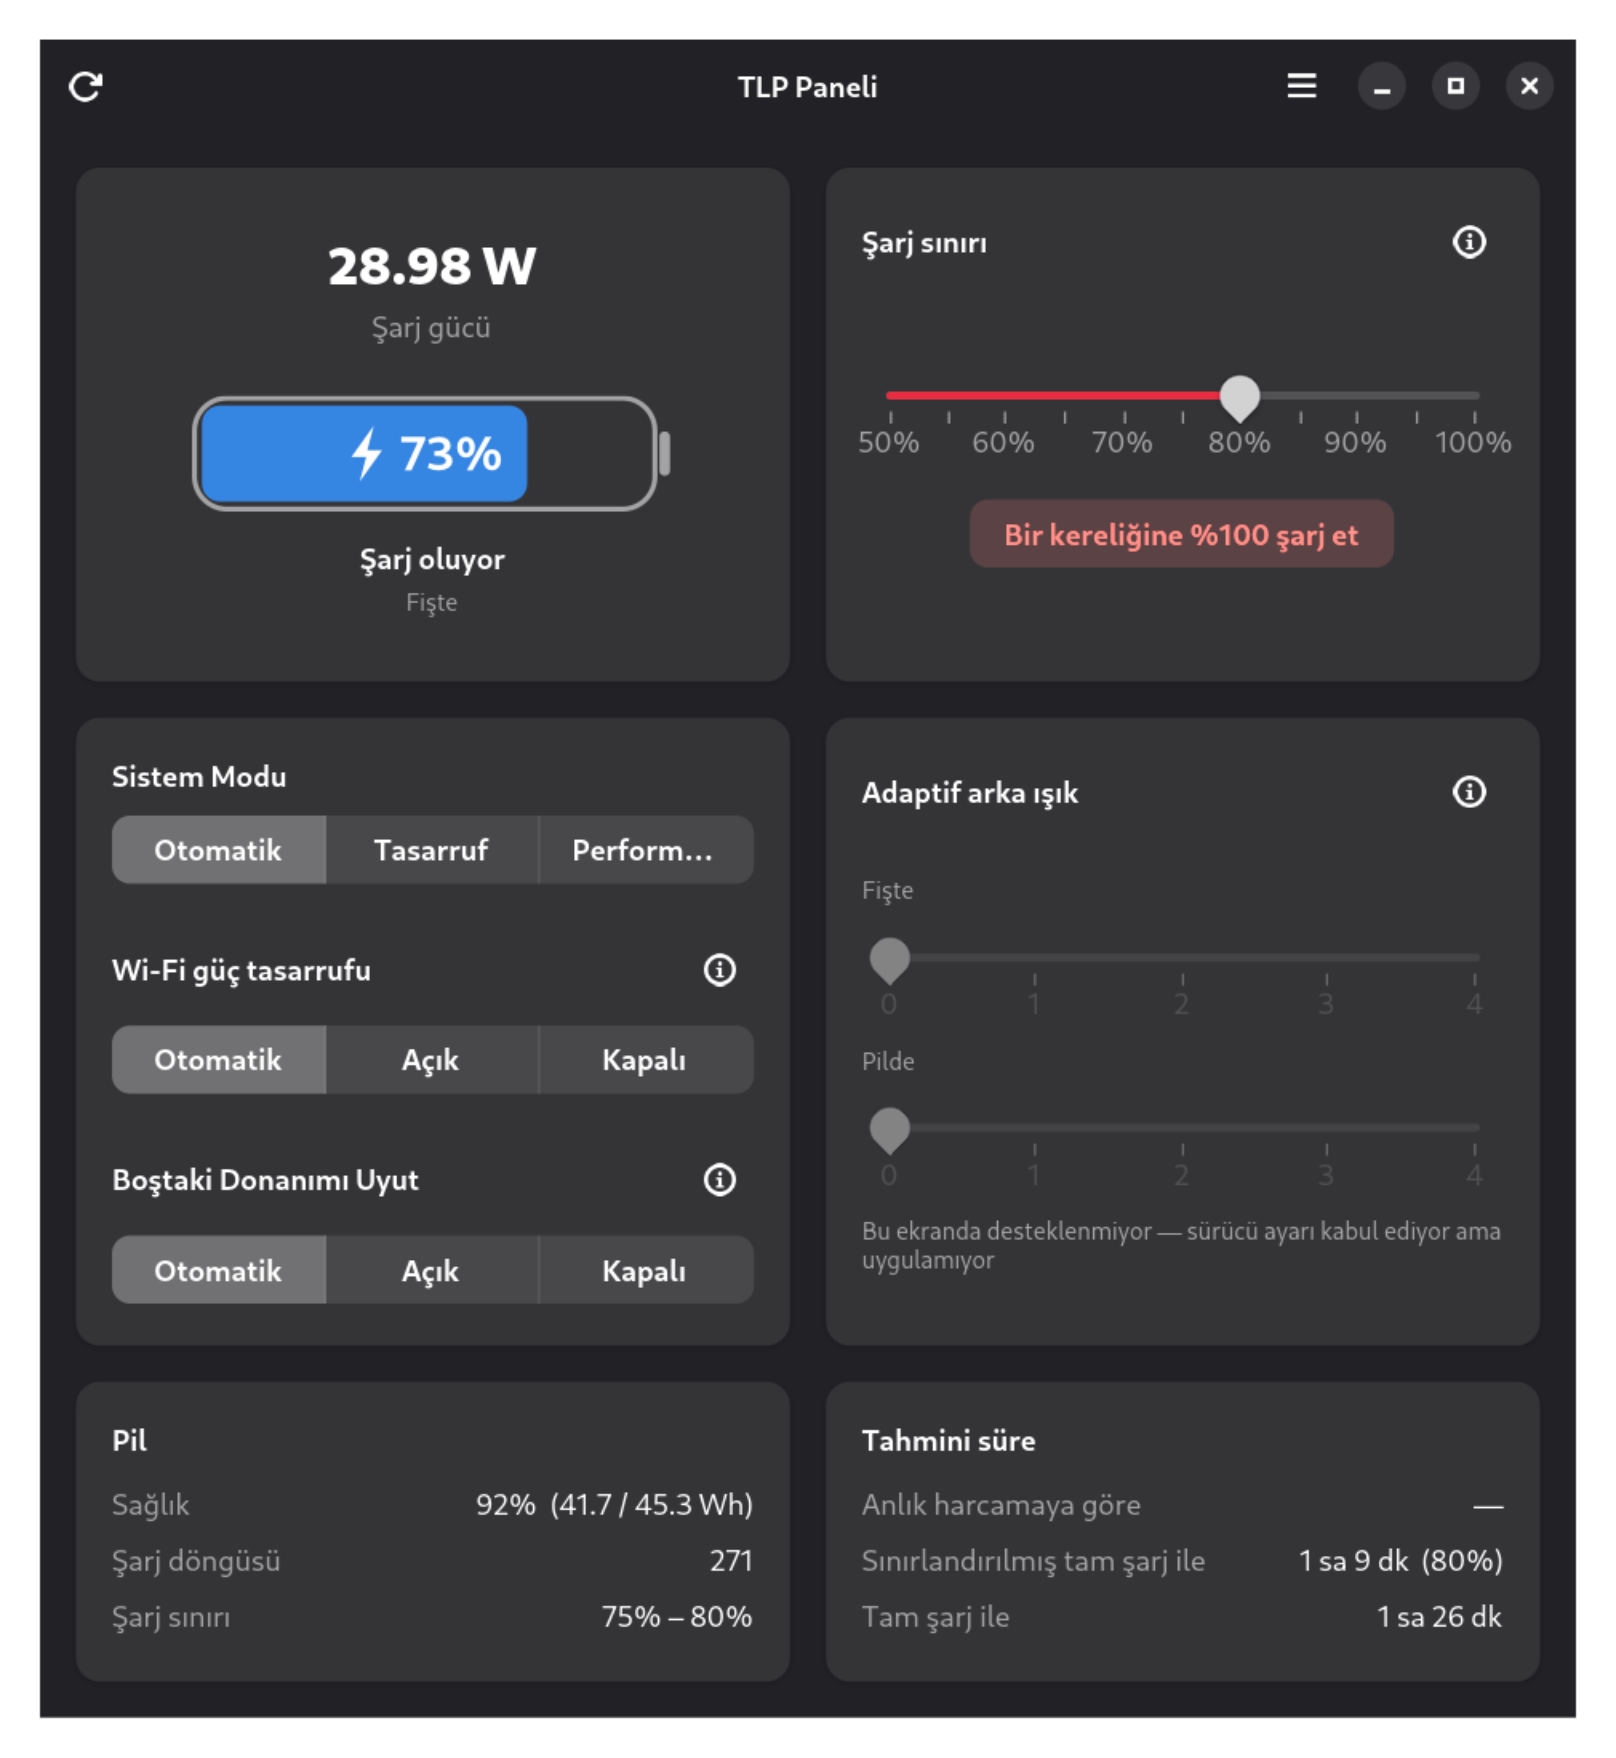
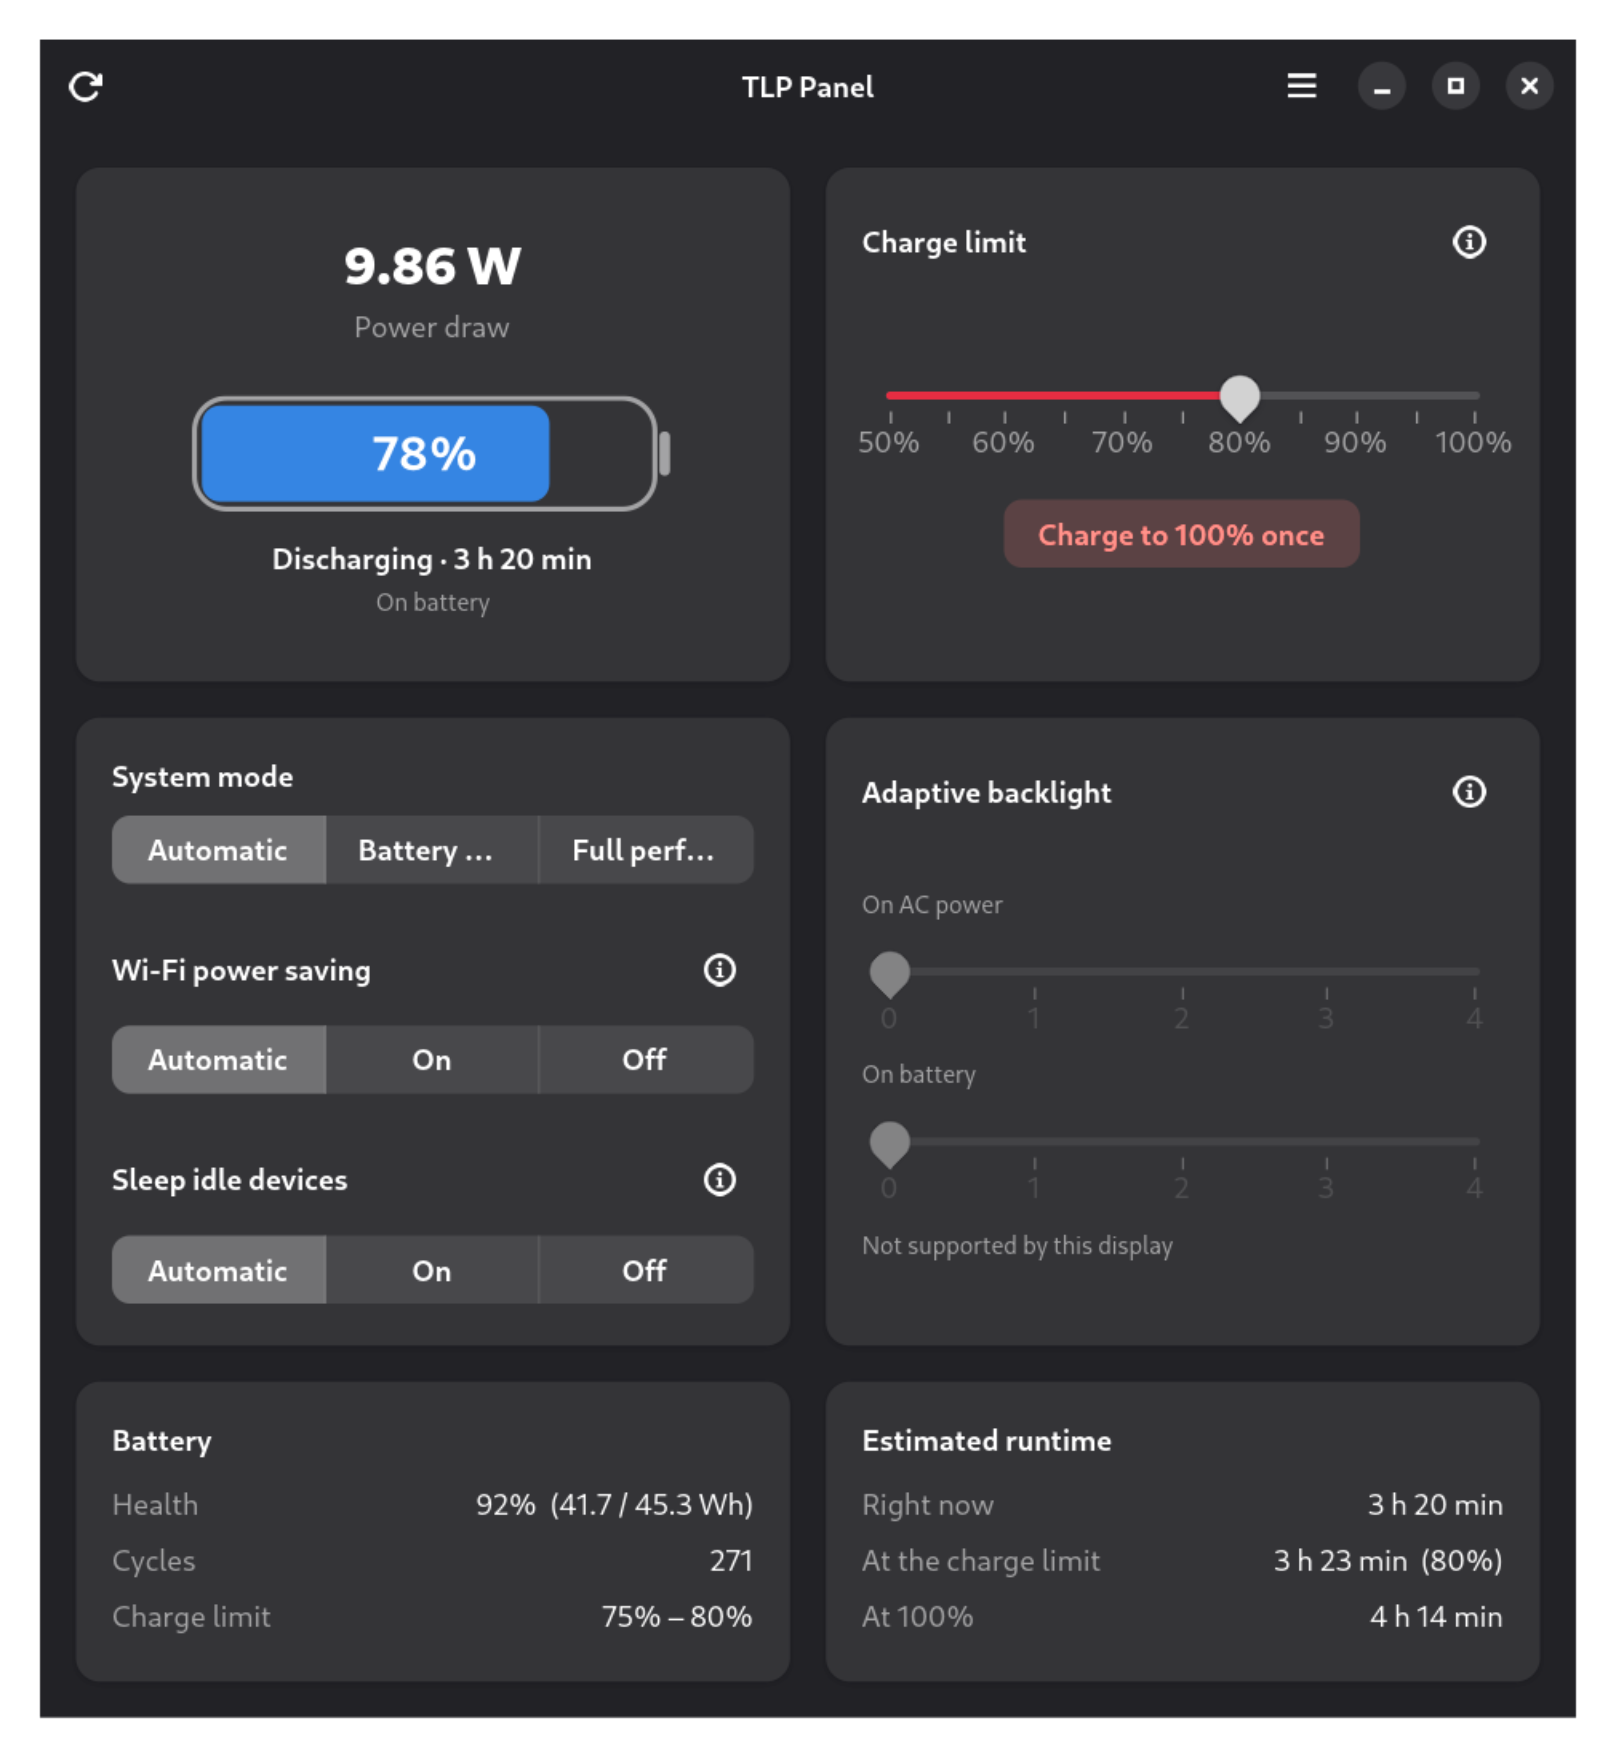
Hold the last reading through the controller's blind spot
Unplugging leaves power_now at zero for a second or two while the embedded
controller starts measuring discharge, and the headline watt figure blanked
out to a dash in that window — the one number the whole card exists to show.

It now keeps the previous reading while current should be flowing, and only
falls back to a dash when the battery is genuinely idle, such as sitting at
its charge limit on AC.

Also replaces the screenshot with an English one.

diff --git a/src/tlppanel/window.py b/src/tlppanel/window.py
@@ -198,6 +198,7 @@ class TlpPanelWindow(Adw.ApplicationWindow):
 
         self._battery_percent = 0.0
         self._battery_charging = False
+        self._last_watts: float | None = None
         self._battery_area = Gtk.DrawingArea()
         self._battery_area.set_content_width(240)
         self._battery_area.set_content_height(58)
@@ -632,7 +633,16 @@ class TlpPanelWindow(Adw.ApplicationWindow):
         watts = state.total_power_w
         battery = state.battery
 
-        self._watt_label.set_label(f"{watts:.2f} W" if watts else "—")
+        # Right after the cable moves, the controller reports 0 W for a
+        # second or two. Hold the previous figure while current should be
+        # flowing, rather than blanking the headline number.
+        if watts:
+            self._last_watts = watts
+        elif battery is None or not (battery.charging or battery.discharging):
+            self._last_watts = None
+
+        shown = watts or self._last_watts
+        self._watt_label.set_label(f"{shown:.2f} W" if shown else "—")
 
         # While charging the battery reports charge power, not what the system
         # is consuming — labelling both the same way would be misleading.
